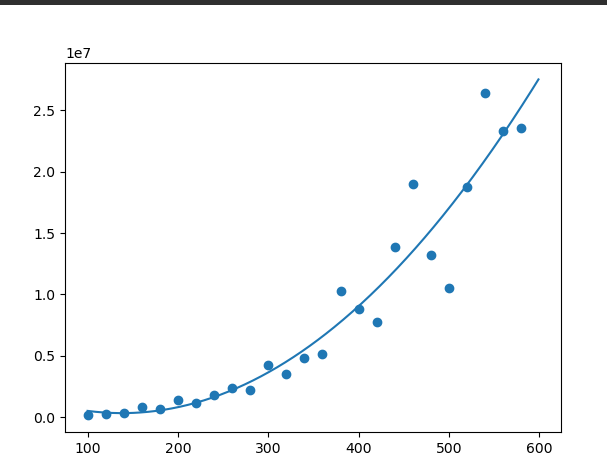
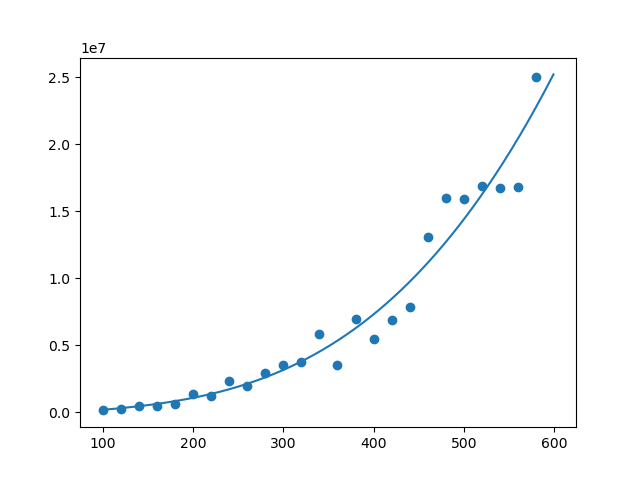
refactor: interpolated functions write to png

diff --git a/analysis.py b/analysis.py
@@ -12,7 +12,7 @@ RIGHT = 600
 SAMPLING_DIST = 20
 
 def cubic(x, a, b, c, d):
-    y = a * x** 3 + b * x**2 + c*x + d
+    y = a * x ** 3 + b * x ** 2 + c * x + d
     return y
 
 ydata = []
@@ -21,7 +21,7 @@ if len(argv) < 2:
     print("please provide .cpp file that generates random graph")
     exit(1)
 
-system(f"g++ call_count.cpp {argv[1]}")
+system(f"g++ call_count.cpp wilsons_algo.cpp {argv[1]}")
 for i in range(LEFT, RIGHT, SAMPLING_DIST):
     s = 0
     for _ in range(20):
@@ -30,6 +30,6 @@ for i in range(LEFT, RIGHT, SAMPLING_DIST):
     xdata.append(i)
 
 a, b, c, d =  curve_fit(cubic, xdata, ydata)[0]
-plt.plot(range(LEFT, RIGHT), [cubic(x, a,b, c, d) for x in range(LEFT, RIGHT)])
+plt.plot(range(LEFT, RIGHT), [cubic(x, a, b, c, d) for x in range(LEFT, RIGHT)])
 plt.scatter(xdata, ydata)
-plt.show()
+plt.savefig("cubic_fit.png")
